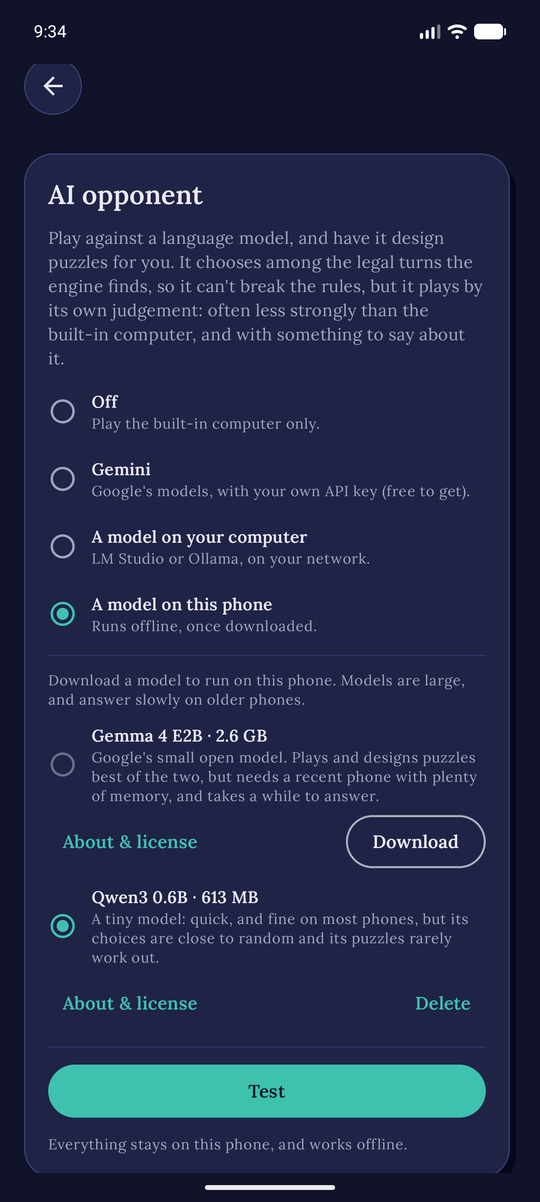
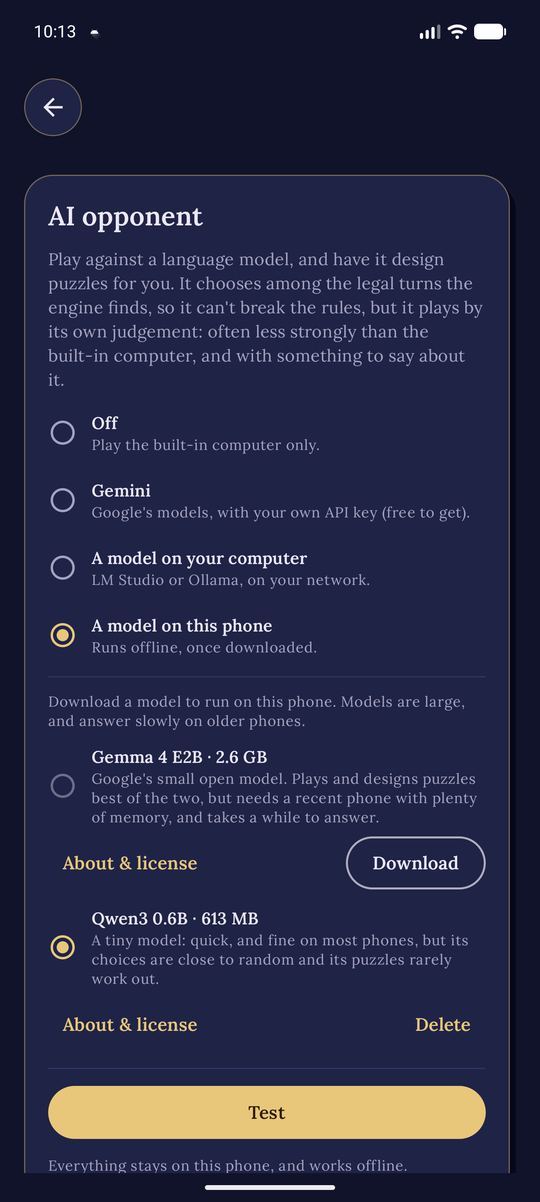
Retake the README screenshots in gold
The menu, a knight's jump through time, the multiverse with three
timelines, the present, the puzzle list, Crossing over and its solution, the
board legend, an Inferno game, AI settings with Qwen3 0.6B on the phone, the
Puzzles by AI card, and online: the invitation, joining and a game. The AI
game keeps its earlier picture, whose model commented on its move.

diff --git a/README.md b/README.md
@@ -1,4 +1,4 @@
-<p align="center"><img src="docs/screenshots/icon.png" width="128" alt="The app icon: a knight bursting out of a gold-ringed portal onto a swirling board"></p>
+<p align="center"><img src="docs/screenshots/icon.png" width="128" alt="The app icon: a knight leaping out of a portal, gold above and burning below, with a teal timeline branching behind it and flames beneath"></p>
 
 # Divine Gambit (Android)
 
@@ -14,9 +14,9 @@ affiliated with or endorsed by the original game's developers, and it uses none 
 game's code or assets.
 
 <p align="center">
-  <img src="docs/screenshots/menu.png" width="250" alt="Main menu: Divine Gambit over a turning checkerboard vortex among the stars, with Singleplayer, Multiplayer and Puzzles">
-  <img src="docs/screenshots/time-travel.png" width="250" alt="A knight's jump back in time, drawn as an arrow from timeline +1 into the past of timeline 0, which branches timeline -1">
-  <img src="docs/screenshots/overview.png" width="250" alt="Overview of a game with three timelines branching from the original">
+  <img src="docs/screenshots/menu.png" width="250" alt="Main menu: Divine Gambit under the rings of the heavens, a teal timeline branching below the card and a red warmth rising from the bottom, with Singleplayer in gold, Multiplayer and Puzzles">
+  <img src="docs/screenshots/time-travel.png" width="250" alt="A knight's jump one turn back in time, drawn as an arrow into the past of timeline 0, which branches timeline +1; White can now submit">
+  <img src="docs/screenshots/overview.png" width="250" alt="Overview of a game with three timelines, -1, 0 and +1, after Black's knight answered with a jump of its own">
 </p>
 
 ## Contents
@@ -72,7 +72,7 @@ Online play needs an internet connection; everything else works offline.
 ## How to play
 
 <p align="center">
-  <img src="docs/screenshots/present.png" width="250" alt="The present: a board on timeline -1 waiting for White's move">
+  <img src="docs/screenshots/present.png" width="250" alt="The present: the first board of timeline +1, waiting for Black's move">
   <img src="docs/screenshots/puzzles.png" width="250" alt="The puzzle list with board previews">
   <img src="docs/screenshots/puzzle.png" width="250" alt="Puzzle 'Crossing over': two timelines, both boards ringed in gold">
 </p>
@@ -194,7 +194,7 @@ claim a checkmate that isn't one.
 <p align="center">
   <img src="docs/screenshots/ai-settings.png" width="250" alt="AI opponent settings: Off, Gemini, a model on your computer or a model on this phone, with Qwen3 0.6B downloaded and chosen">
   <img src="docs/screenshots/ai-game.png" width="250" alt="A game against Deepseek 14B, which comments on its move: Opening up the kingside with a pawn storm! Prepare for the fianchetto!">
-  <img src="docs/screenshots/ai-puzzles.png" width="250" alt="The puzzle list's Puzzles by AI card, with an optional theme and a button to ask Deepseek 14B for a puzzle">
+  <img src="docs/screenshots/ai-puzzles.png" width="250" alt="The puzzle list's Puzzles by AI card, with an optional theme and a button to ask Qwen3 0.6B for a puzzle">
 </p>
 
 **AI opponent** (at the bottom of the menu) connects a language model, in one of three ways:
@@ -273,7 +273,7 @@ travel through.
 ## Puzzles
 
 <p align="center">
-  <img src="docs/screenshots/solved.png" width="250" alt="Puzzle solved dialog over the checkmated position">
+  <img src="docs/screenshots/solved.png" width="250" alt="Puzzle solved dialog over the checkmated position of Crossing over">
 </p>
 
 **Puzzles** in the menu opens six "White to checkmate in one turn" puzzles that teach the core
